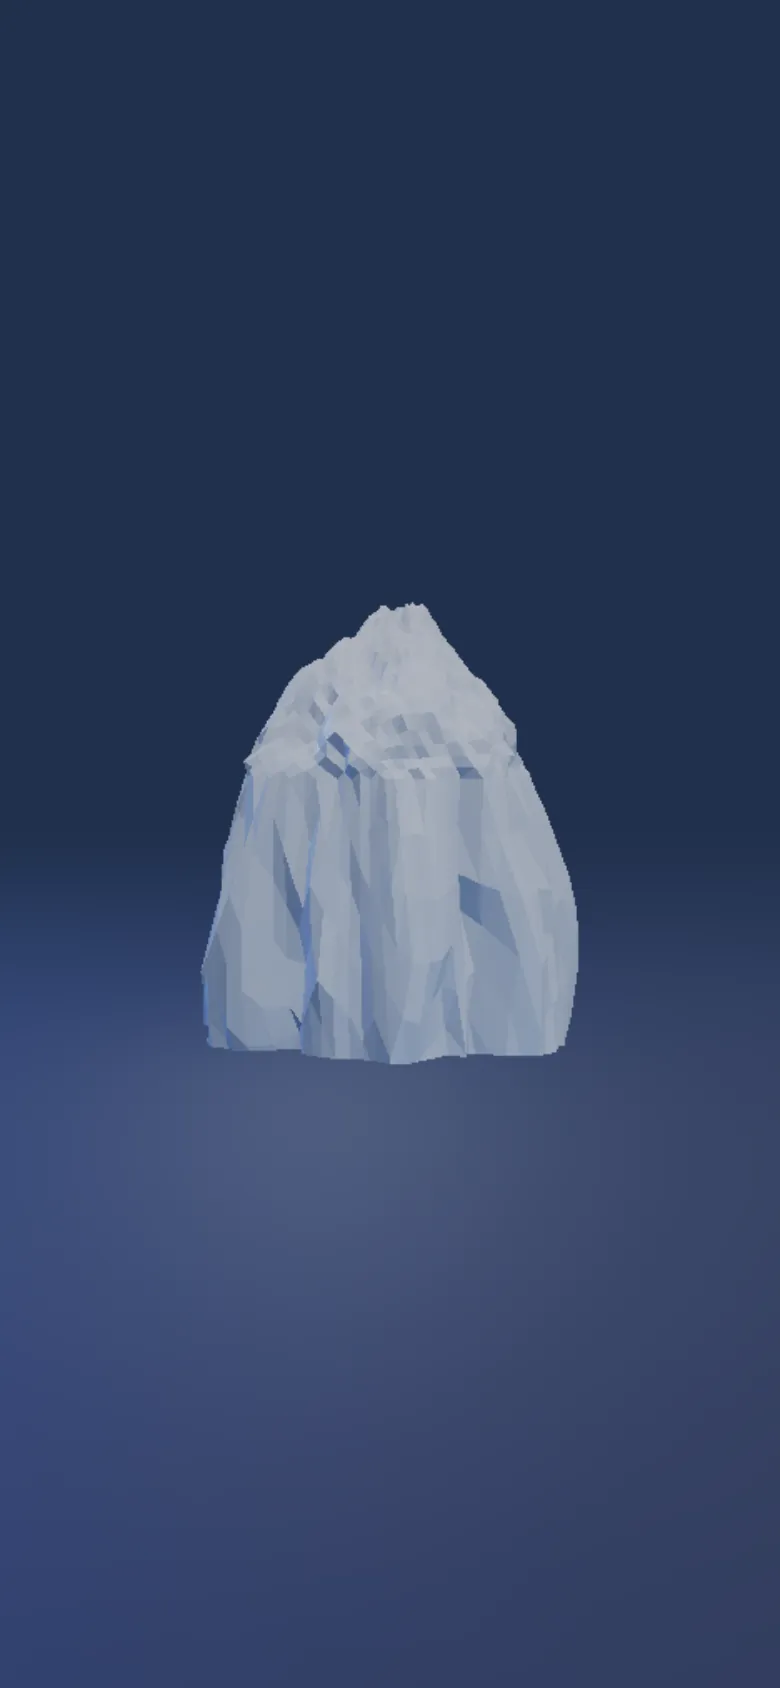
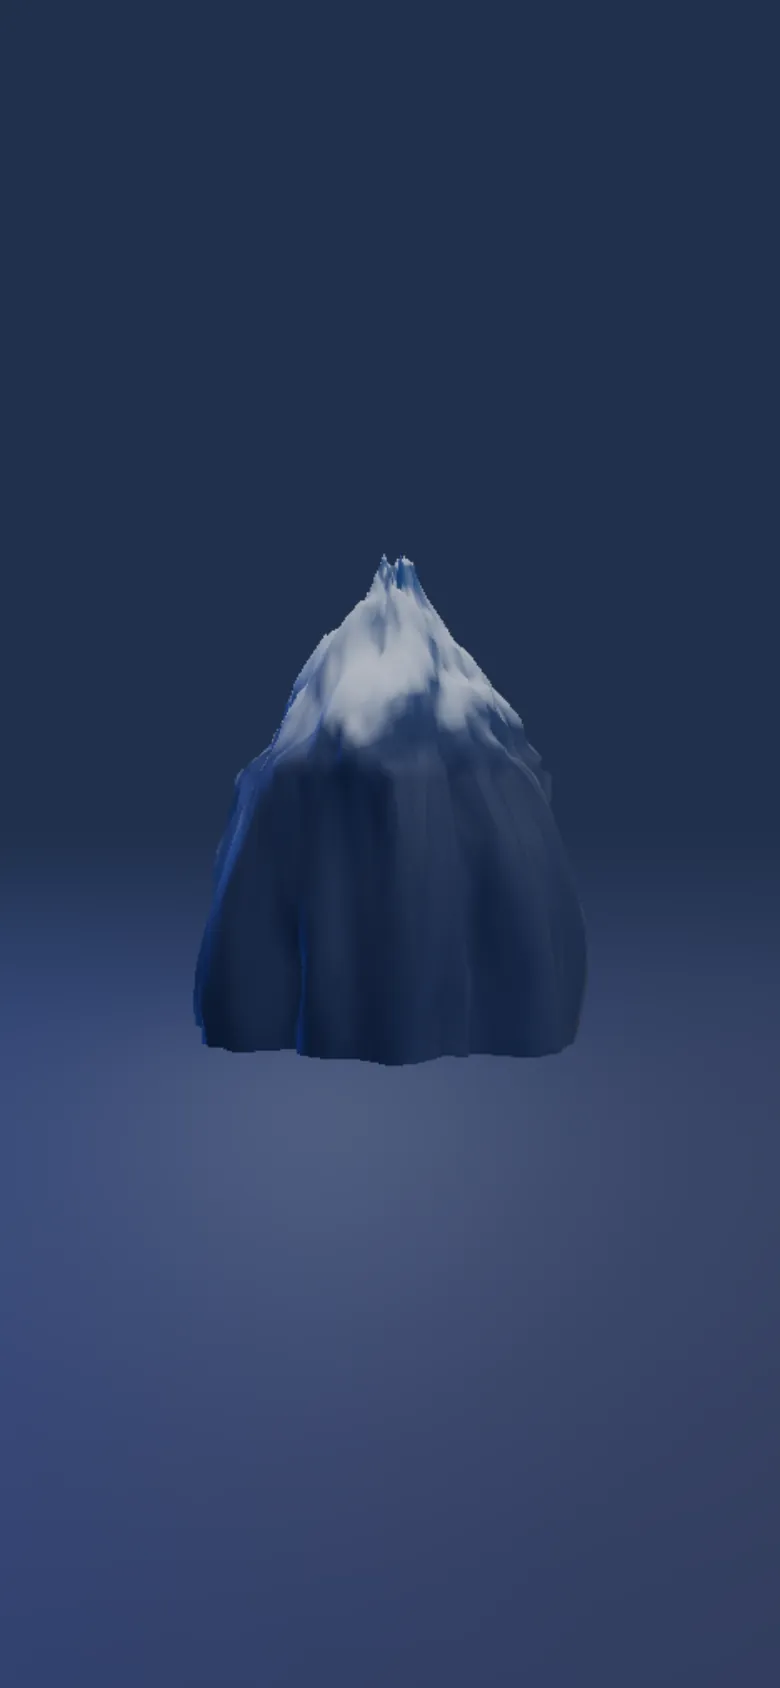
Hero: Alpengipfel aus Fels und Schnee statt Eiskristall
Kundenwunsch: der Berg aus dem Logo, realistisch und nicht verspielt,
farblich schoener.

WAS BLEIBT: die Masse unter Wasser. Sie IST die Metapher (Business Case
Kap. 2, „Nur die Spitze des Eisbergs") und traegt die gesamte
Hero-Choreografie ueber drei Textebenen. Geaendert ist, wie der Berg
AUSSIEHT — nicht, was er erzaehlt.

ZUR LOGO-KONTUR: Der Berg dreht sich beim Scrollen. Die exakte Silhouette
der Wort-Bild-Marke waere deshalb nur aus genau einem Blickwinkel zu
sehen und aus allen anderen ein Zufallsprofil. Uebernommen ist ihr
Charakter: ein dominanter Gipfel, davon abfallende Grate (`aretes`,
cos(3*theta)), Nebengipfel als Schultern. Das liest sich aus jeder
Drehung als dieselbe Marke.

Drei Hebel, in dieser Reihenfolge wirksam:

1. FARBE — der mit Abstand groesste Effekt. Fels und Schnee nach Hoehe
   UND Neigung: Auf steilen Flanken haelt kein Schnee, deshalb zeichnen
   sich Grate und Steilstufen dunkel ab. Genau dieses Wechselspiel macht
   einen Berg lesbar; eine gleichmaessig weisse Zuckerglasur nicht.
   Die Schneegrenze franst per Rauschen aus, sonst liegt ein sichtbar
   gleichmaessiger Ring um den Berg.
   Alle Toene aus der Logo-Palette: abyss/steel Fels, frost/snow Schnee,
   ink fuer die Tiefe. Keine Fremdfarbe.

2. SCHATTIERUNG — mergeVertices(). Das Entfernen von `flatShading` allein
   brachte NICHTS: IcosahedronGeometry ist non-indexed, jedes Dreieck hat
   eigene Eckpunkte, also liefert computeVertexNormals Flaechennormalen —
[…]

Changed region(s): [[0.2462, 0.3081, 0.7692, 0.6469]]

diff --git a/lib/iceberg-geometry.ts b/lib/iceberg-geometry.ts
@@ -5,18 +5,31 @@ import {
   MathUtils,
   type BufferGeometry,
 } from "three";
+import { mergeVertices } from "three/examples/jsm/utils/BufferGeometryUtils.js";
 import { fbm } from "./noise";
 import { palette } from "./palette";
 
 /**
- * Eisberg-Geometrie — prozedural, deterministisch, ohne externes Asset.
+ * Berg-Geometrie — prozedural, deterministisch, ohne externes Asset.
  *
- * Die Form IST die Metapher (Business Case Kap. 2):
- *   Über der Wasserlinie (y = 0) ragt eine schmale, gezackte Spitze —
- *   die sichtbare Sanierung und Trocknung. Sie zitiert bewusst die Gipfel
- *   der Wort-Bild-Marke.
- *   Darunter liegt die eigentliche Masse: bauchig direkt unter der Oberfläche,
- *   dann in die Tiefe zulaufend — das volle Leistungsspektrum.
+ * SIEHT AUS WIE EIN BERG, VERHÄLT SICH WIE EIN EISBERG.
+ * Auf Kundenwunsch ein echter Alpengipfel — Fels und Schnee statt eines
+ * verspielten Eiskristalls (die Anmutung der Visitenkarte: fast blauschwarzer
+ * Fels, weiße Schneefelder). Die Masse unter der Wasserlinie bleibt, denn sie
+ * IST die Metapher (Business Case Kap. 2, „Nur die Spitze des Eisbergs") und
+ * trägt die gesamte Hero-Choreografie.
+ *
+ * Die Form:
+ *   Über der Wasserlinie (y = 0) ein scharfer Hauptgipfel mit Nebengraten —
+ *   die sichtbare Sanierung und Trocknung.
+ *   Darunter die eigentliche Masse: bauchig knapp unter der Oberfläche, dann in
+ *   die Tiefe zulaufend — das volle Leistungsspektrum.
+ *
+ * ZUR LOGO-KONTUR: Der Berg dreht sich beim Scrollen. Die exakte Silhouette der
+ * Wort-Bild-Marke wäre deshalb nur aus genau einem Blickwinkel zu sehen — und
+ * aus allen anderen ein Zufallsprofil. Übernommen ist stattdessen ihr CHARAKTER:
+ * ein dominanter Gipfel, davon abfallende Grate, Nebengipfel als Schultern. Das
+ * liest sich aus jeder Drehung als dieselbe Marke.
  *
  * Proportion: ~18 % über Wasser. Physikalisch korrekt wären ~11 %, aber dann
  * verschwindet die Spitze im Bild. 18 % liest sich als „Spitze des Eisbergs"
@@ -28,7 +41,8 @@ import { palette } from "./palette";
  * Rauschen um ±0.26, die tatsächliche Ausdehnung liegt also darüber.
  * Die echten Maße liefert `getIcebergBounds()` aus der Bounding Box.
  */
-const PEAK_SCALE = 1.15;
+/** Höher als in der Eis-Fassung (1.15): ein Gipfel ist schlanker als ein Brocken. */
+const PEAK_SCALE = 1.42;
 const DEPTH_SCALE = 5.2;
 
 /**
@@ -45,30 +59,70 @@ export const ICEBERG_DETAIL = {
  * Radiusmodulation.
  * `base`  — grobe, unregelmäßige Silhouette
  * `ridge` — ridged noise (1 - |n|) erzeugt Grate statt Wellen: der Trick,
- *           der Eis und Fels von einer Kartoffel unterscheidet
+ *           der Fels von einer Kartoffel unterscheidet
+ * `rock`  — zweite Gratoktave: Felsstruktur in mittlerem Maßstab
  * `fine`  — feine Kantenunruhe
+ *
+ * Gegenüber der Eis-Fassung deutlich mehr Grat und mehr Feinstruktur: Ein
+ * Alpengipfel ist zerklüftet, ein Eiswürfel glatt. Das ist möglich, seit die
+ * Facetten weg sind (smooth shading, siehe Iceberg.tsx) — vorher wurde jede
+ * kleine Störung zu einer eigenen Facette und die Form las sich als
+ * Tannenzapfen. Jetzt trägt die Schattierung die Struktur.
  */
 function radiusAt(x: number, y: number, z: number): number {
-  // Große, ruhige Grundform + moderate Grate. Die feine Oktave bewusst niedrig:
-  // mit flatShading wird jede kleine Störung zu einer Facette, zu viel davon
-  // liest sich als „Tannenzapfen" statt als Eismasse (plan.md §0: Ruhe).
   const base = fbm(x * 1.35, y * 1.35, z * 1.35, 4);
   const ridge = 1 - Math.abs(fbm(x * 2.6, y * 2.6, z * 2.6, 3));
-  const fine = fbm(x * 6.0, y * 6.0, z * 6.0, 2);
+  const rock = 1 - Math.abs(fbm(x * 5.2, y * 5.2, z * 5.2, 3));
+  /*
+   * Feine Oktave bewusst schwach. Sie darf die NORMALEN nicht aufrauen: Auf
+   * ihnen sitzt die Schneeverteilung (applyRockAndSnow liest die Neigung).
+   * Mit 0.028 sprang die Neigung von Vertex zu Vertex und der Schnee fiel als
+   * Salz-und-Pfeffer-Sprenkel aus statt als zusammenhängendes Feld.
+   * Die Felsstruktur trägt die mittlere Oktave (`rock`), die grob genug ist,
+   * um die Normalen zusammenhängend zu lassen.
+   */
+  const fine = fbm(x * 11.0, y * 11.0, z * 11.0, 2);
 
-  return 1 + 0.3 * base + 0.14 * (ridge - 0.5) + 0.022 * fine;
+  return (
+    1 + 0.3 * base + 0.2 * (ridge - 0.5) + 0.06 * (rock - 0.5) + 0.009 * fine
+  );
 }
 
 /**
- * Vertikales Profil — verwandelt die verrauschte Kugel in einen Eisberg.
+ * Grate, die vom Gipfel abfallen — der Charakter der Wort-Bild-Marke.
+ *
+ * Echte Berge haben Arête-Grate, die sternförmig vom Hauptgipfel weglaufen;
+ * das Logo zeigt genau das (ein dominanter Gipfel, davon abfallende Kanten,
+ * seitliche Nebengipfel). `cos(3·θ)` legt drei solche Grate um den Berg — aus
+ * jeder Drehung sieht man deshalb einen Hauptgipfel mit Schultern statt eines
+ * beliebigen Klumpens.
+ *
+ * Nur über Wasser und nach oben auslaufend (`1 - t`): Am Gipfel selbst laufen
+ * die Grate zusammen, sonst bekäme die Spitze einen dreiblättrigen Stern.
+ */
+function aretes(x: number, z: number, t: number): number {
+  const theta = Math.atan2(z, x);
+  return 1 + 0.17 * Math.cos(3 * theta + 0.6) * (1 - t);
+}
+
+/**
+ * Vertikales Profil — verwandelt die verrauschte Kugel in einen Berg.
  * Arbeitet in-place auf (x, y, z) und gibt das Ergebnis als Tupel zurück.
  */
 function profile(x: number, y: number, z: number): [number, number, number] {
   if (y >= 0) {
-    // Über Wasser: nach oben verjüngen → Gipfel statt Kuppel.
+    /*
+     * Über Wasser: nach oben verjüngen → Gipfel statt Kuppel.
+     *
+     * Schärfer als in der Eis-Fassung (dort 0.55 / Exponent 1.3): Der niedrige
+     * Exponent zieht die Verjüngung schon knapp über der Wasserlinie an, die
+     * Flanken laufen dadurch gerade nach oben zusammen statt sich erst spät
+     * einzuschnüren — ein Horn wie im Logo, keine Kuppel.
+     */
     const t = Math.min(y, 1);
-    const taper = 1 - 0.55 * Math.pow(t, 1.3);
-    return [x * taper, y * PEAK_SCALE, z * taper];
+    const taper = 1 - 0.72 * Math.pow(t, 1.05);
+    const w = taper * aretes(x, z, t);
+    return [x * w, y * PEAK_SCALE, z * w];
   }
 
   // Unter Wasser: Bauch knapp unter der Oberfläche, dann in die Tiefe zulaufend.
@@ -96,8 +150,8 @@ function profile(x: number, y: number, z: number): [number, number, number] {
 export function createIcebergGeometry(
   detail: number = ICEBERG_DETAIL.desktop,
 ): BufferGeometry {
-  const geometry = new IcosahedronGeometry(1, detail);
-  const pos = geometry.attributes.position;
+  const raw = new IcosahedronGeometry(1, detail);
+  const pos = raw.attributes.position;
 
   for (let i = 0; i < pos.count; i++) {
     const px = pos.getX(i);
@@ -115,56 +169,138 @@ export function createIcebergGeometry(
 
     pos.setXYZ(i, x, y, z);
   }
-
   pos.needsUpdate = true;
+
+  /*
+   * PFLICHT für die weiche Schattierung — nicht optional.
+   *
+   * IcosahedronGeometry ist non-indexed: Jedes Dreieck bringt eigene Eckpunkte
+   * mit, auch wenn Nachbarn exakt dieselbe Position haben. computeVertexNormals
+   * mittelt dann nur über EIN Dreieck und liefert Flächennormalen — die
+   * Geometrie sieht facettiert aus, selbst ohne `flatShading`. Genau daran lag
+   * es, dass der Berg nach dem Entfernen des Flags immer noch wie ein
+   * geschliffener Kristall wirkte.
+   *
+   * mergeVertices() verschweißt die Dubletten zu indizierter Geometrie; erst
+   * dann mittelt computeVertexNormals über alle angrenzenden Dreiecke und der
+   * Fels bekommt echte weiche Normalen. Läuft einmal beim Aufbau (useMemo),
+   * kostet zur Laufzeit nichts — und spart nebenbei rund zwei Drittel der
+   * Vertices.
+   *
+   * Sicher, weil das Displacement rein aus der normalisierten Position folgt:
+   * Deckungsgleiche Vertices liegen auch nach der Verformung deckungsgleich.
+   */
+  const geometry = mergeVertices(raw);
+  raw.dispose();
+
   geometry.computeVertexNormals();
   geometry.computeBoundingSphere();
   geometry.computeBoundingBox();
 
-  applyDepthTint(geometry);
+  // Erst nach computeVertexNormals(): die Schneeverteilung liest die Neigung.
+  applyRockAndSnow(geometry);
 
   return geometry;
 }
 
 /**
- * Tönung „steel-blue → silver" (plan.md §3) als Vertex-Farben.
+ * Fels und Schnee als Vertex-Farben.
  *
- * Statt teurer Transmission mit Attenuation wird der Verlauf einmalig in die
- * Geometrie gebacken: unten (Tiefe) stahlblau, oben (Gipfel) silbrig-frost.
- * Kostet zur Laufzeit nichts und zahlt auf die Metapher ein — die verborgene
- * Masse liest sich kühler und tiefer als die sichtbare Spitze.
+ * DAS ist der Unterschied zwischen Eiskristall und Alpengipfel — mehr noch als
+ * die Form. Vorbild ist die Visitenkarte der Kundin: fast blauschwarzer Fels,
+ * weiße Schneefelder, kühles Licht.
+ *
+ * Wo liegt Schnee? Auf einem echten Berg an zwei Bedingungen geknüpft:
+ *   HÖHE  — unterhalb der Schneegrenze bleibt der Fels frei.
+ *   NEIGUNG — auf steilen Flanken hält kein Schnee, er rutscht ab. Deshalb
+ *             zeichnen sich an einem verschneiten Berg die Grate und Steilstufen
+ *             dunkel ab. Genau dieses Wechselspiel macht ihn lesbar.
+ * `normal.y` liefert die Neigung: 1 = waagerecht nach oben, 0 = senkrecht.
+ * Beides zusammen erzeugt Schneefelder, die der Form folgen, statt einer
+ * gleichmäßig weißen Zuckerglasur.
+ *
+ * Unter Wasser gibt es weder Schnee noch Sonne: Dort läuft der Fels ins Dunkle,
+ * Blaue aus — das zahlt auf die Metapher ein (die verborgene Masse liegt kühler
+ * und tiefer als die sichtbare Spitze) und lässt ihn sauber in den Nebel gehen.
+ *
+ * ALLE Töne stammen aus der Logo-Palette: deep/steel für Fels, frost/snow für
+ * Schnee, abyss für die Tiefe. Keine Fremdfarbe (tailwind.config.ts).
  *
  * `vertexColors` multipliziert diese Farbe mit `material.color`; das Material
  * bleibt deshalb auf snow (Weiß = neutraler Multiplikator).
+ *
+ * Braucht die Normalen — also erst NACH computeVertexNormals() aufrufen.
  */
-function applyDepthTint(geometry: BufferGeometry) {
+function applyRockAndSnow(geometry: BufferGeometry) {
   const pos = geometry.attributes.position;
+  const nor = geometry.attributes.normal;
   const box = geometry.boundingBox!;
-  const minY = box.min.y;
   const maxY = box.max.y;
+  const minY = box.min.y;
 
-  /**
-   * Wichtig: Vertex-Farben wirken MULTIPLIKATIV auf das Albedo. Reines `steel`
-   * (ein dunkler Ton) unten würde das Eis nicht tönen, sondern absaufen lassen.
-   * Der tiefste Ton ist deshalb steel, nur zu 55 % in frost eingemischt — ein
-   * klarer Blaustich bei hoher Helligkeit.
+  /*
+   * Fels: DUNKLER als der Nebel (der ist `deep`, siehe Atmosphere).
+   *
+   * Erster Versuch war `deep` — also exakt die Nebelfarbe. Der Berg hatte dann
+   * keinen Kontrast zum Hintergrund und versank als graublauer Fleck darin.
+   * Die Visitenkarte macht es richtig: fast schwarzer Fels vor hellerem Himmel,
+   * die Helligkeit trägt der Schnee. `abyss` liegt eine Stufe unter dem Nebel
+   * und gibt genau diese Silhouette.
    */
-  const deepTone = new Color(palette.frost).lerp(new Color(palette.steel), 0.55);
-  const midTone = new Color(palette.frost);
-  const peakTone = new Color(palette.snow);
-  const c = new Color();
+  const rockDark = new Color(palette.abyss);
+  const rockLit = new Color(palette.steel);
+  /** Schnee: nie ganz rein — reines Weiß frisst die Form auf. */
+  const snowTone = new Color(palette.snow);
+  const snowShade = new Color(palette.frost);
+  /** Tiefe: läuft in die Fläche aus, damit der Fuß im Nebel verschwindet. */
+  const abyssTone = new Color(palette.ink);
 
+  const c = new Color();
+  const rock = new Color();
+  const snow = new Color();
   const colors = new Float32Array(pos.count * 3);
 
   for (let i = 0; i < pos.count; i++) {
-    const t = MathUtils.clamp((pos.getY(i) - minY) / (maxY - minY), 0, 1);
+    const x = pos.getX(i);
+    const y = pos.getY(i);
+    const z = pos.getZ(i);
+    const slope = MathUtils.clamp(nor.getY(i), 0, 1);
 
-    // Tiefe → Wasserlinie: stahlblau → silber. Der Exponent hält den Blaustich
-    // unten und lässt ihn erst nach oben hin aufklaren.
-    c.copy(deepTone).lerp(midTone, Math.pow(t, 0.85));
-    // Nur die obersten ~20 % bekommen den letzten Stich Richtung Weiß.
-    const peak = MathUtils.clamp((t - 0.8) / 0.2, 0, 1);
-    c.lerp(peakTone, peak * 0.75);
+    if (y >= 0) {
+      /** 0 an der Wasserlinie, 1 am Gipfel. */
+      const h = MathUtils.clamp(y / maxY, 0, 1);
+
+      // Fels: unten dunkel, nach oben aufklarend (Luftperspektive).
+      rock.copy(rockDark).lerp(rockLit, Math.pow(h, 1.2) * 0.7);
+
+      /*
+       * Die Schneegrenze verläuft nicht auf einer Höhenlinie — sie franst aus:
+       * In Mulden und Rinnen liegt Schnee tiefer, auf sonnigen Rippen höher.
+       * Eine grobe Rauschoktave verschiebt sie deshalb pro Region um ±0.1.
+       * Ohne das zieht sich ein sichtbar gleichmäßiger Ring um den Berg.
+       */
+      const drift = 0.1 * fbm(x * 1.8, y * 1.8, z * 1.8, 2);
+
+      /*
+       * Schneegrenze bewusst tief und die Neigungsschwelle großzügig: Der Berg
+       * steht klein im Bild, und Schnee ist das Einzige, was hier wirklich
+       * hell ist — er trägt die Lesbarkeit der Form. Mit den ersten,
+       * „realistischeren" Werten (0.3/0.65 und 0.42/0.78) blieben nur ein paar
+       * Sprenkel am Gipfel und der Berg las sich als dunkler Klumpen.
+       */
+      const heightMask = MathUtils.smoothstep(h + drift, 0.12, 0.44);
+      // Hält ab ~45° Neigung, sicher auf allem Flacheren.
+      const slopeMask = MathUtils.smoothstep(slope, 0.28, 0.68);
+      const cover = heightMask * slopeMask;
+
+      // Schnee im Schatten bläulich, auf der Fläche weiß.
+      snow.copy(snowShade).lerp(snowTone, MathUtils.smoothstep(slope, 0.6, 0.95));
+      c.copy(rock).lerp(snow, cover);
+    } else {
+      // Unter Wasser: vom Fels an der Linie ins Abyss der Tiefe.
+      const d = MathUtils.clamp(y / minY, 0, 1);
+      c.copy(rockDark).lerp(abyssTone, Math.pow(d, 0.7));
+    }
 
     colors[i * 3] = c.r;
     colors[i * 3 + 1] = c.g;

diff --git a/components/hero/Iceberg.tsx b/components/hero/Iceberg.tsx
@@ -7,18 +7,21 @@ import { createIcebergGeometry, ICEBERG_DETAIL } from "@/lib/iceberg-geometry";
 import { palette } from "@/lib/palette";
 
 /**
- * Das Eis-Mesh (plan.md §3).
+ * Das Berg-Mesh (plan.md §3).
  *
- * Material: MeshPhysicalMaterial, transluzent, getönt steel→frost.
- *   ior 1.31 ist der echte Brechungsindex von Eis — kein Zierwert, er
- *   entscheidet sichtbar über die Kantenbrechung.
- *   flatShading erzeugt die Facetten, die Eis von einer glatten Blase
- *   unterscheiden.
+ * AUF KUNDENWUNSCH FELS STATT EIS: „realistisch, nicht verspielt". Die
+ * vorherige Fassung war transluzentes Eis mit Facetten (flatShading, ior 1.31,
+ * clearcoat) — technisch korrekt für einen Eisberg, gelesen aber als
+ * geschliffener Kristall. Jetzt ein Alpengipfel in der Anmutung der
+ * Visitenkarte: matter, blauschwarzer Fels, weiße Schneefelder.
  *
- * `transmission` rendert die Szene in einen zusätzlichen Buffer und ist der
- * teuerste Posten der Szene — auf Mobile daher aus, ersetzt durch schlichte
- * Transparenz. Der Unterschied ist bei Telefon-Bildgröße kaum zu sehen,
- * die fps-Differenz erheblich.
+ * Die drei Hebel, in dieser Reihenfolge wirksam:
+ *   1. Farbe — Fels/Schnee nach Höhe UND Neigung (lib/iceberg-geometry.ts).
+ *      Der mit Abstand größte Effekt.
+ *   2. Schattierung — weiche Normalen statt Facetten.
+ *   3. Material — matt (roughness 0.82) statt speckig.
+ *
+ * Die Masse unter Wasser bleibt: Sie trägt die Metapher (Business Case Kap. 2).
  */
 export function Iceberg({ quality = "high" }: { quality?: "high" | "low" }) {
   const geometry = useMemo(
@@ -32,32 +35,44 @@ export function Iceberg({ quality = "high" }: { quality?: "high" | "low" }) {
   return (
     <mesh geometry={geometry} castShadow={false} receiveShadow={false}>
       <meshPhysicalMaterial
-        // Weiß = neutraler Multiplikator. Die eigentliche Tönung
-        // „steel-blue → silver" (plan.md §3) liegt als Vertex-Farbverlauf in
-        // der Geometrie: unten stahlblau, oben silbrig.
+        // Weiß = neutraler Multiplikator. Fels- und Schneetöne liegen als
+        // Vertex-Farben in der Geometrie (lib/iceberg-geometry.ts).
         color={palette.snow}
         vertexColors
-        roughness={0.34}
+        /*
+         * Fels ist matt. 0.34 (die alte Eis-Fassung) ließ die ganze Masse
+         * speckig glänzen — genau der „verspielte" Kristall-Look, der weg
+         * sollte. 0.82 schluckt die Spiegelung; die Form trägt jetzt allein
+         * das Licht.
+         */
+        roughness={0.82}
         metalness={0}
-        ior={1.31}
-        reflectivity={0.45}
-        flatShading
+        /*
+         * KEIN flatShading mehr. Die Facetten waren der Grund, warum das Objekt
+         * wie ein geschliffener Kristall aussah und nicht wie Fels. Mit weichen
+         * Normalen trägt die Schattierung die Struktur — deshalb darf die
+         * Geometrie jetzt auch deutlich mehr Grat und Feinstruktur haben
+         * (radiusAt), was vorher zu „Tannenzapfen" geführt hätte.
+         */
         side={DoubleSide}
-        // Eigenes, sehr schwaches Leuchten in Stahlblau: hält die Facetten
-        // auch dort lesbar, wo weder Key- noch Rim-Light hinkommt — verhindert
-        // das „dunkler Fels"-Problem, ohne die Szene zu überstrahlen.
+        /*
+         * Sehr schwaches Eigenleuchten in Stahlblau: hält den Fels dort lesbar,
+         * wo weder Key- noch Rim-Light hinkommt. Halbiert gegenüber der
+         * Eis-Fassung (0.18) — Fels leuchtet nicht von innen, und bei matter
+         * Oberfläche fällt jedes Eigenleuchten stärker auf.
+         */
         emissive={palette.steel}
-        emissiveIntensity={0.18}
+        emissiveIntensity={0.09}
         // BEWUSST KEIN `transmission`: das rendert die komplette Szene pro
         // Frame ein zweites Mal in einen Puffer und war der größte Ruckler
-        // der Fahrt. Bei diesen Kameradistanzen ist echte Refraktion ohnehin
-        // unsichtbar — den Eis-Look tragen Facetten (flatShading), die
-        // Vertex-Tönung, Env-Licht und Rim.
+        // der Fahrt. Fels ist ohnehin undurchsichtig — anders als Eis verliert
+        // er dadurch nichts.
         // Ebenso bewusst OPAK: alpha-blending auf selbstüberlappender
         // Geometrie erzeugt Sortier-Flackern während der Bewegung.
-        envMapIntensity={1.15}
+        envMapIntensity={0.7}
         {...(quality === "high"
-          ? { clearcoat: 0.7, clearcoatRoughness: 0.28, specularIntensity: 0.9 }
+          ? // Kein clearcoat: Das ist eine Lackschicht — auf Fels falsch.
+            { specularIntensity: 0.35 }
           : {})}
       />
     </mesh>